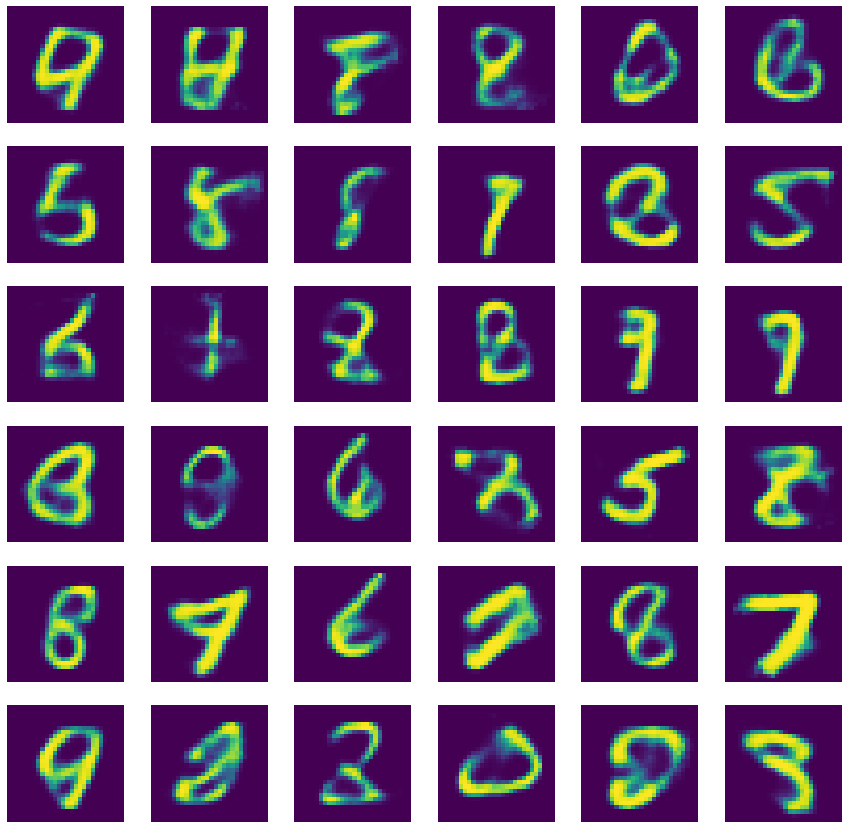
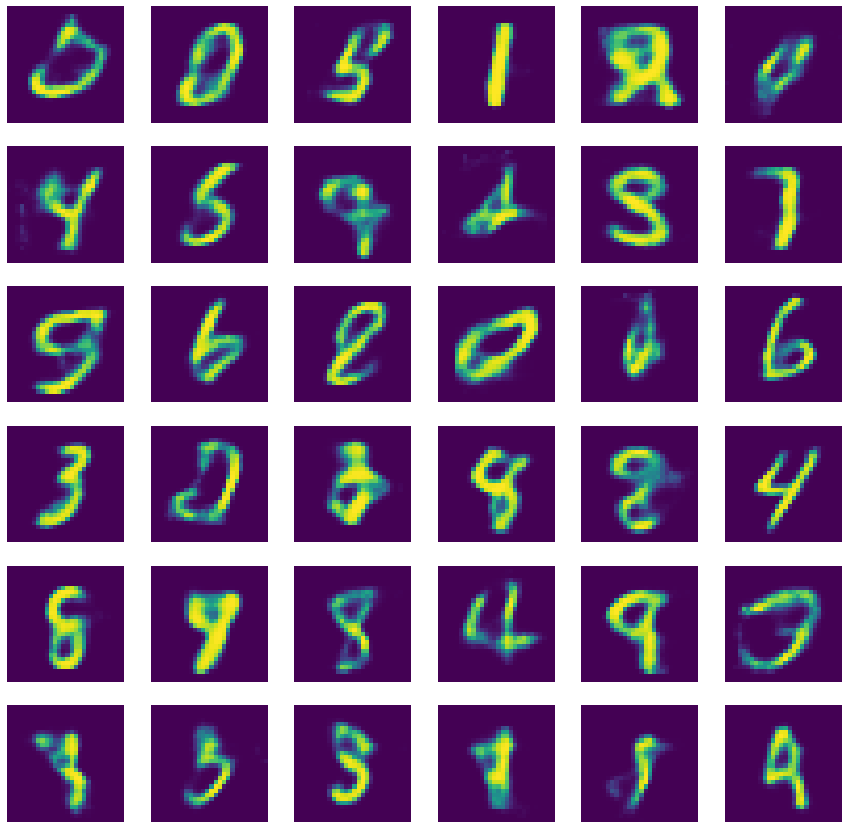
Refactored code

diff --git a/Generating Digits/Generating Digits using a Variational Autoencoder/README.md b/Generating Digits/Generating Digits using a Variational Autoencoder/README.md
@@ -1,4 +1,4 @@
-# Generating Digits Using a Variational AutoEncoder
+# Generating Digits Using A Variational AutoEncoder
 
 ## Creating A Variational AutoEncoder
 
@@ -98,22 +98,13 @@ train_images, test_images = train_images / 255, test_images / 255
 
 fig, axes = plt.subplots(6, 6, figsize = (15, 15))
 
-samples = np.array([
-    [0,  1,  2,  3,   4,  5],
-    [6,  7,  8,  9,  10, 11],
-    [12, 13, 14, 15, 16, 17],
-    [18, 19, 20, 21, 22, 23],
-    [24, 25, 26, 27, 28, 29],
-    [30, 31, 32, 33, 34, 35]
-])
-
 for row in range(0, 6):
     for col in range(0, 6):
-        current_image = train_images[samples[row, col]]
-        axes[row, col].set_title(train_labels[samples[row, col]])
+        current_image = train_images[6 * row + col]
+        axes[row, col].set_title(train_labels[6 * row + col])
         axes[row, col].axis('off')
         axes[row, col].imshow(current_image)
-
+        
 train_images = train_images.reshape((-1, 28 * 28))
 test_images  = test_images.reshape((-1, 28 * 28))
 images = np.vstack((train_images, test_images))
@@ -138,35 +129,35 @@ history = vae_model.fit(images, images, **fit_params)
 
     Train on 70000 samples
     Epoch 1/15
-    70000/70000 [==============================] - 26s 369us/sample - loss: 0.1639
+    70000/70000 [==============================] - 28s 394us/sample - loss: 0.1636
     Epoch 2/15
-    70000/70000 [==============================] - 25s 353us/sample - loss: 0.1425
+    70000/70000 [==============================] - 24s 342us/sample - loss: 0.1426
     Epoch 3/15
-    70000/70000 [==============================] - 44s 629us/sample - loss: 0.1389
+    70000/70000 [==============================] - 24s 345us/sample - loss: 0.1391
     Epoch 4/15
-    70000/70000 [==============================] - 38s 542us/sample - loss: 0.1369
+    70000/70000 [==============================] - 26s 366us/sample - loss: 0.1370
     Epoch 5/15
-    70000/70000 [==============================] - 34s 485us/sample - loss: 0.1354
+    70000/70000 [==============================] - 37s 524us/sample - loss: 0.1357
     Epoch 6/15
-    70000/70000 [==============================] - 32s 455us/sample - loss: 0.1342
+    70000/70000 [==============================] - 41s 591us/sample - loss: 0.1348
     Epoch 7/15
-    70000/70000 [==============================] - 36s 511us/sample - loss: 0.1334
+    70000/70000 [==============================] - 33s 466us/sample - loss: 0.1337
     Epoch 8/15
-    70000/70000 [==============================] - 31s 445us/sample - loss: 0.1327
+    70000/70000 [==============================] - 33s 470us/sample - loss: 0.1331
     Epoch 9/15
-    70000/70000 [==============================] - 26s 369us/sample - loss: 0.1322
+    70000/70000 [==============================] - 34s 482us/sample - loss: 0.1325
     Epoch 10/15
-    70000/70000 [==============================] - 25s 362us/sample - loss: 0.1316
+    70000/70000 [==============================] - 24s 343us/sample - loss: 0.1319
     Epoch 11/15
-    70000/70000 [==============================] - 30s 422us/sample - loss: 0.1312
+    70000/70000 [==============================] - 24s 338us/sample - loss: 0.1315
     Epoch 12/15
-    70000/70000 [==============================] - 26s 371us/sample - loss: 0.1307
+    70000/70000 [==============================] - 23s 335us/sample - loss: 0.1311
     Epoch 13/15
-    70000/70000 [==============================] - 29s 414us/sample - loss: 0.1304
+    70000/70000 [==============================] - 24s 346us/sample - loss: 0.1306
     Epoch 14/15
-    70000/70000 [==============================] - 27s 385us/sample - loss: 0.1300
+    70000/70000 [==============================] - 27s 389us/sample - loss: 0.1304
     Epoch 15/15
-    70000/70000 [==============================] - 28s 399us/sample - loss: 0.1297
+    70000/70000 [==============================] - 24s 348us/sample - loss: 0.1299
 
 
 ## Results
@@ -190,3 +181,4 @@ plt.show()
 
 
 ![png](output_19_0.png)
+
